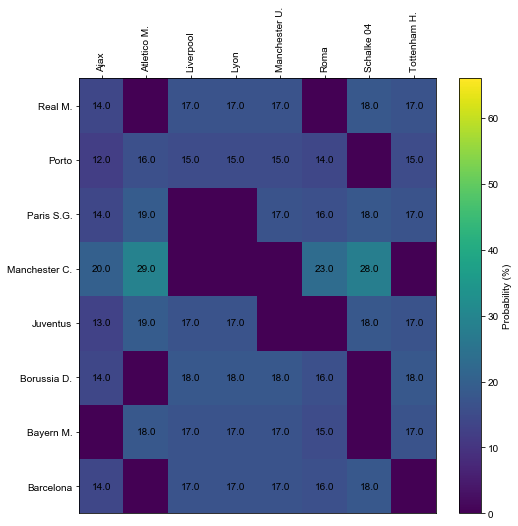
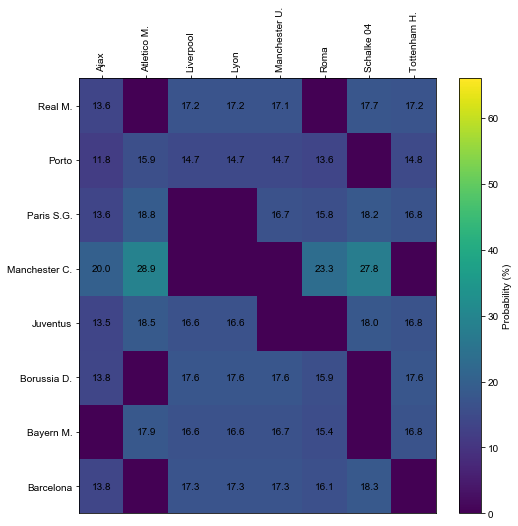
Add correct rounding.

diff --git a/_posts/2018-12-16-draw.md b/_posts/2018-12-16-draw.md
@@ -149,7 +149,7 @@ After obtaining the result, we convert the counts into probabilities.
 ```python
 data = matrix2sets(X)
 C = process(data)
-P = 100 * np.round((C / C.sum(axis=0)), 2)
+P = np.round(100 * (C / C.sum(axis=0)), 2)
 P
 ```
 
